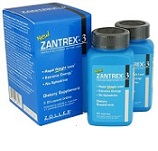
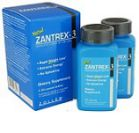
height de imagens melhorados

diff --git a/FarmacySistem(MVC)/Assets/css/EstiloLV/estilo.css b/FarmacySistem(MVC)/Assets/css/EstiloLV/estilo.css
@@ -7,6 +7,7 @@ body{
     background-color: #F5F5F5;
     width: 890px;
 }
+
 .info{
     margin-top: 10px;
     margin-left: 10px;

diff --git a/FarmacySistem(MVC)/App/View/TodosOsProdutos.php b/FarmacySistem(MVC)/App/View/TodosOsProdutos.php
@@ -1,6 +1,7 @@
 
 <?php foreach($medicamentos as $info): ?>
-    <a href="/Descricao"><p class='prod'>
+    <a href="/Descricao">
+    <p class='prod'>
     <img class=img src=<?php echo $info["local_armazem"] . $info["nome"] . ".jpg";?> alt='Medicamento'><br>
     <span><?php echo $info['nome'] . "<br><br>" . $info['descricao_prod'];?></span><br>
     <span1>R$<?php echo $info['valor']?>,00<br></span1><br>
